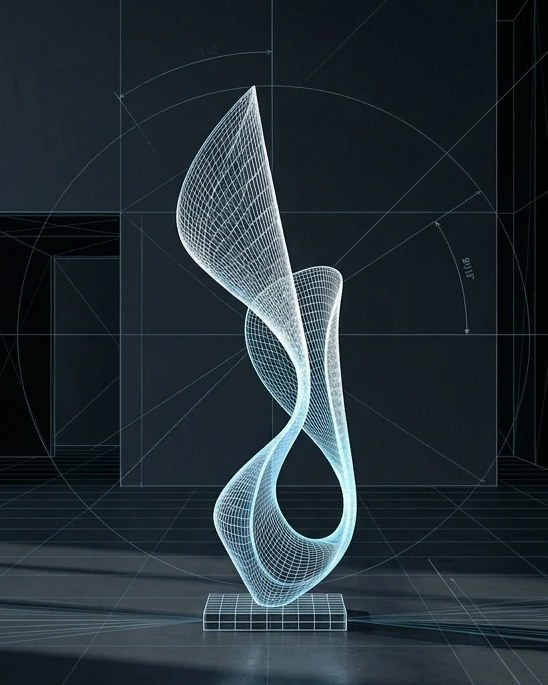
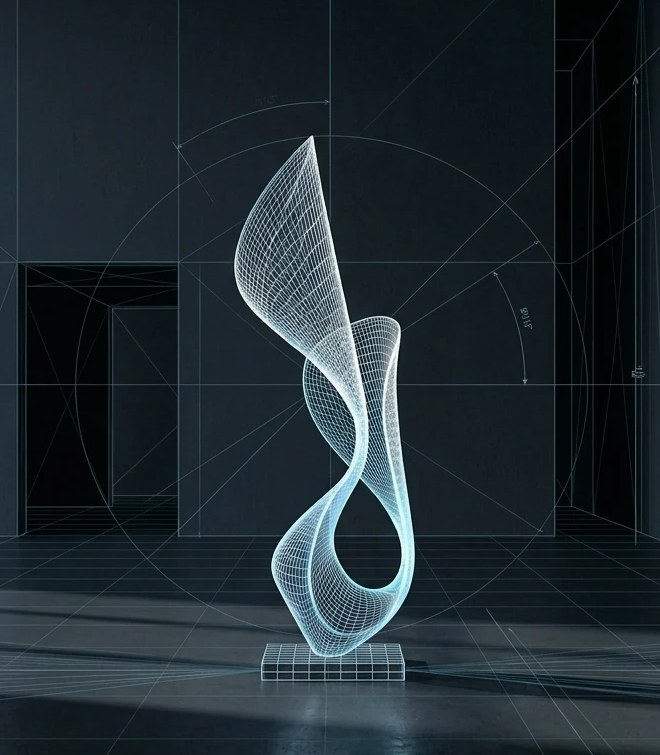
About: wider crop that keeps the circular guide lines in frame
660 x 755 from the cleaned source, matching the photo box ratio so the
whole guide circle stays visible on desktop and phones.

Claude-Session: https://claude.ai/code/session_01434qgcFd5PVr9y6eZgLktZ

diff --git a/build/build.py b/build/build.py
@@ -424,7 +424,7 @@ def build_lang():
     paras = ''.join(f'<p>{T(t)}</p>' for t in (L(AB, 'paragraphs', []) or []))
     kv = ''.join(f'<dt>{E(LI(r, "label"))}</dt><dd>{T(LI(r, "text"))}</dd>' for r in (AB.get('what_we_do', []) or []))
     ab_src = img(AB.get('intro_image'))
-    ab_img = f'<figure class="about-img"><img src="{E(ab_src)}" alt="" width="548" height="685" loading="lazy"></figure>' if ab_src else ''
+    ab_img = f'<figure class="about-img"><img src="{E(ab_src)}" alt="" width="660" height="755" loading="lazy"></figure>' if ab_src else ''
     about = f'''<div class="page-head"><div class="wrap"><span class="eyebrow">About</span><h1 class="long">Art is complete<br>where it <span class="ul">stands</span>.</h1></div></div>
 <section>
   <div class="wrap two-col{' has-img' if ab_img else ''}">

diff --git a/CLAUDE.md b/CLAUDE.md
@@ -31,7 +31,7 @@ Root `*.html`, `park-loop.*` and `img/park-poster.jpg` are leftovers from the fi
 | `assets/hero.js` | Home hero animation (see below) |
 | `build/illust.js`, `img/illust/*.svg` | Line illustrations: `service-01..03` (home What we do cards, by order). Edit the script, run `node build/illust.js`, commit the SVGs; the site build only links them |
 | `img/home/statement.jpg` | Home photo beside the story (`home.statement_image`, CMS field 소개글 오른쪽 사진). Slim and tall beside the story, a little longer than the text (5:4 under it on phones); reveals with the scroll position and drifts slightly (`site.js`, off with reduced motion); source with the Gemini mark removed , upscaled to 1200 × 1500, in `photos-src/home/` |
-| `img/about/intro.jpg` | About photo under the STANDS label beside the copy (`about.intro_image`, CMS field 소개글 옆 사진). Cropped tight on the sculpture (548 × 685), exactly as tall as the copy, label above it; same scroll reveal as the home photo; 4:5 above the copy below 860 px. Source (Gemini mark removed) in `photos-src/about/` |
+| `img/about/intro.jpg` | About photo under the STANDS label beside the copy (`about.intro_image`, CMS field 소개글 옆 사진). Cropped to the sculpture and its circular guide lines (660 × 755), exactly as tall as the copy, label above it; same scroll reveal as the home photo; 4:5 above the copy below 860 px. Source (Gemini mark removed) in `photos-src/about/` |
 | `img/hero/01–12-*.jpg` | Hero photos, 2400 px wide, plus `-1600.jpg` copies for small/1x screens (`hero.js` picks by screen size × DPR). Originals (2752 px) in `photos-src/hero/`, not deployed |
 | `video/courtyard-loop-v2.mp4/.webm`, `img/courtyard-poster.jpg` | Final loop film |
 
